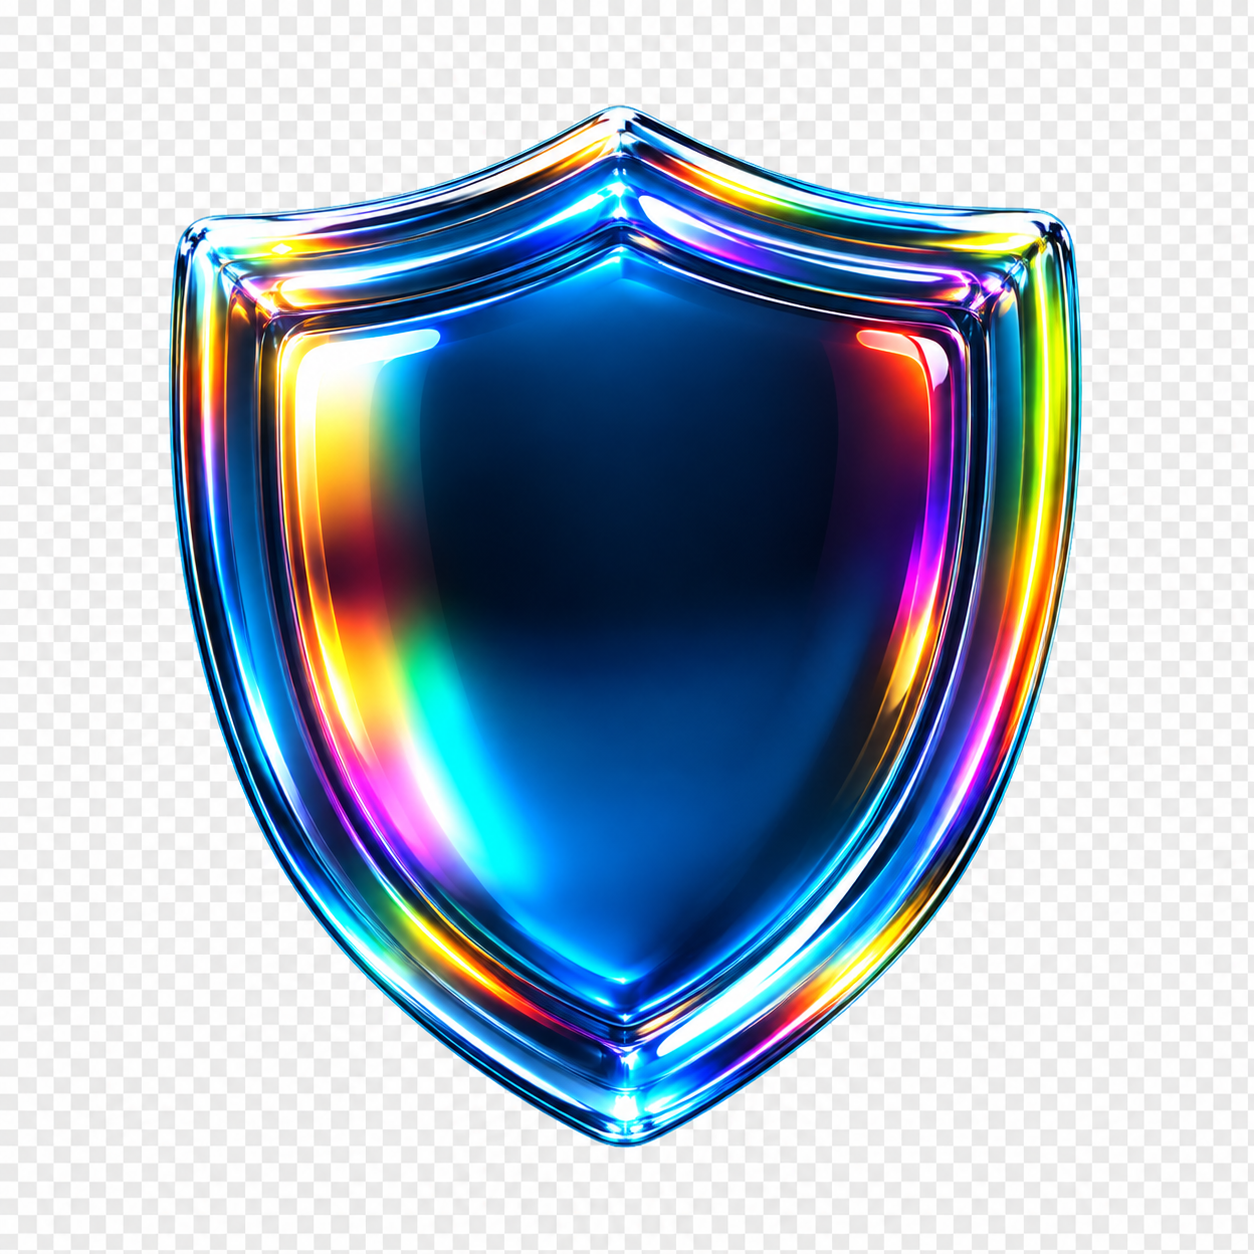
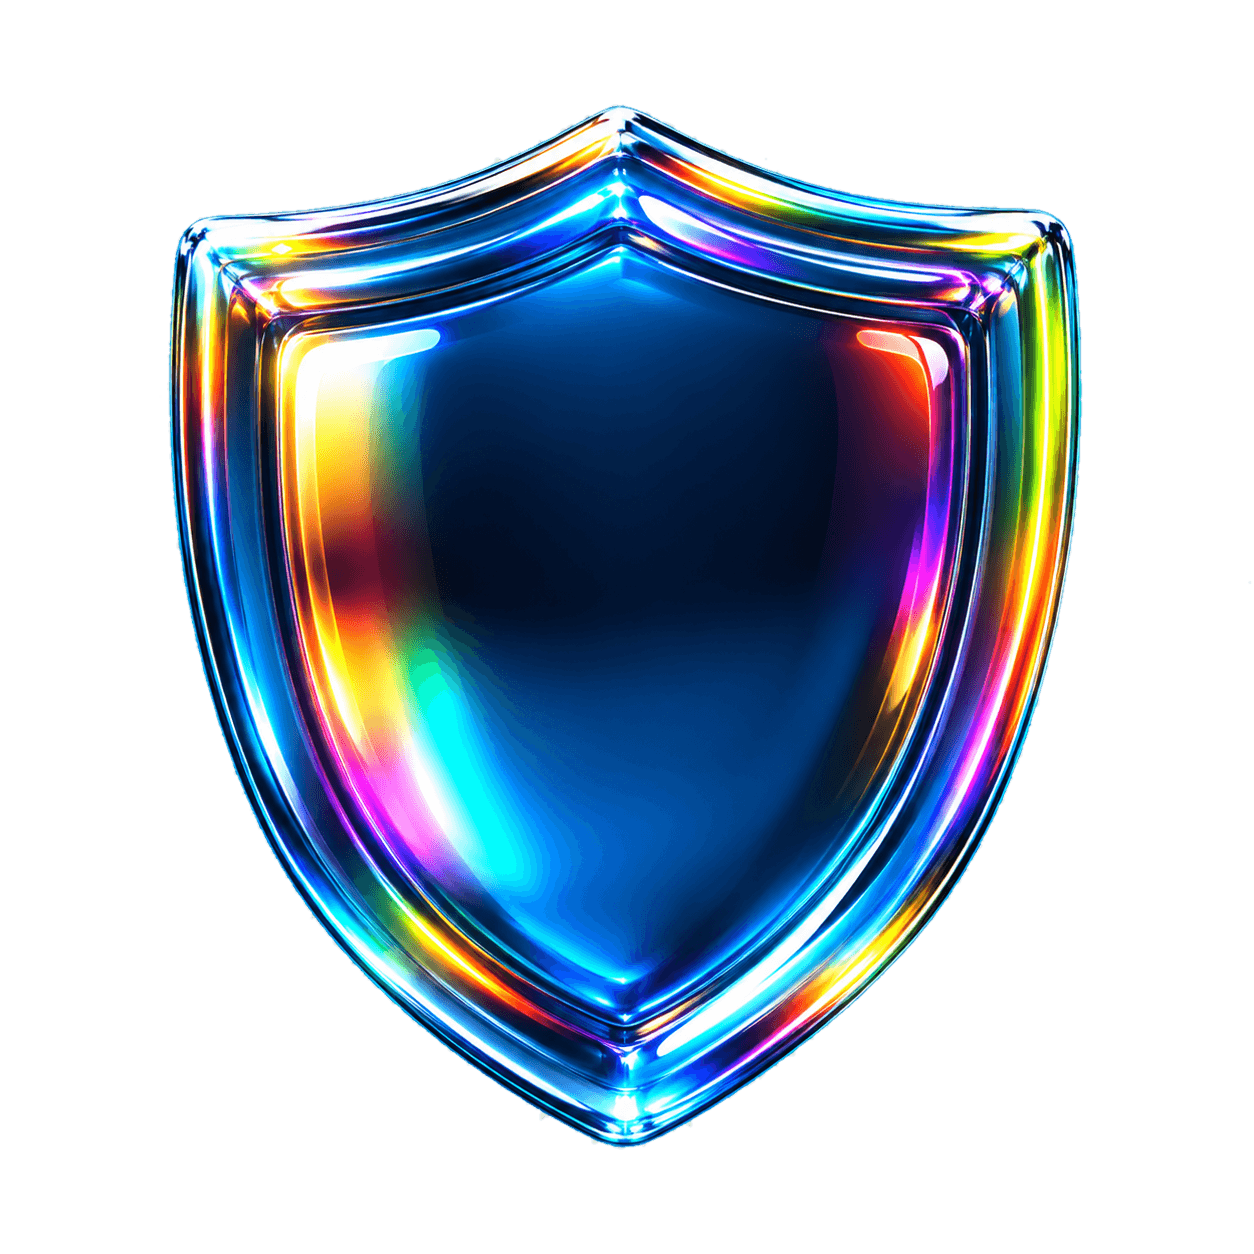
Bring the shield in, with its checkerboard keyed out
glass-icon-shield.png arrived with no alpha channel: it had been exported
with the editor's transparency checkerboard flattened into the pixels, so
it rendered as a grey chequered box around the shield. The file in this
repo now carries real transparency.

The checker is what makes that recoverable — it is neutral and bright
(234 and 254, R=G=B) where the art is saturated or dark, and it is
connected to the frame. So a flood fill inward from the border removes it
and cannot reach the shield's own white rim highlights, which the art
encloses. Measured: 54.6% of the frame removed, against a background that
occupied about 55% of it, with the centre and rims left fully opaque.

A first attempt at this appeared to destroy the art, and the cause was
worth writing down: the feather was done with `sharp.blur()` on a
one-channel raw buffer, which does not return one channel, so reading it
back per pixel ran off the end and every alpha byte came out zero. The
whole image went transparent and the page showed a clipped shield. The
blur is three lines of JS now, over a buffer whose length is known.

Re-compressed on the way through, which took the file from 2.4 MB to
254 KB with the pixels untouched. If the piece is ever re-exported from
source with real transparency, that file is better than this recovery and
should replace it.

diff --git a/app/styles/components/logo-cloud.css b/app/styles/components/logo-cloud.css
@@ -14,23 +14,35 @@
   padding-inline: 1rem;
 }
 
+/* An even grid at every width, never a wrapping flex row.
+
+   The row used to be `flex-wrap` with each mark at its natural width, which is
+   what made the section look scattered: every row broke at a different point,
+   no two marks shared a left edge, and the last row centred itself under
+   columns that were not there. A fixed column count per breakpoint puts every
+   mark in the same box as its neighbours, so the eye reads columns. */
 .logo-cloud__grid {
   display: grid;
   grid-template-columns: repeat(3, minmax(0, 1fr));
-  place-items: center;
-  gap: 2rem 1rem;
-  max-width: 64rem;
+  align-items: center;
+  justify-items: center;
+  gap: clamp(1.5rem, 4vw, 2.5rem) 1rem;
+  max-width: 68rem;
   margin: 2.5rem auto 0;
 }
 
 @media (min-width: 640px) {
   .logo-cloud__grid {
-    display: flex;
-    flex-wrap: wrap;
-    align-items: center;
-    justify-content: center;
-    gap: 2rem 2.5rem;
+    grid-template-columns: repeat(4, minmax(0, 1fr));
+    gap: 2.5rem 1.5rem;
     margin-top: 3rem;
+  }
+}
+
+@media (min-width: 1024px) {
+  .logo-cloud__grid {
+    grid-template-columns: repeat(6, minmax(0, 1fr));
+    gap: 2.75rem 2rem;
   }
 }
 
@@ -38,38 +50,42 @@
   display: flex;
   align-items: center;
   justify-content: center;
+  width: 100%;
   min-width: 0;
   transition: transform 220ms cubic-bezier(0.16, 1, 0.3, 1);
-}
-
-@media (min-width: 640px) {
-  .logo-cloud__item {
-    flex: 0 0 auto;
-    padding-inline: 0.5rem;
-  }
 }
 
 .logo-cloud__item:hover {
   transform: scale(1.07);
 }
 
+/* One box for every mark, and each mark fitted inside it.
+
+   Sizing by height alone (the old `h-12`/`h-16` on the image) is what made
+   these read as different sizes: a 4:1 wordmark like "ZHTC — Zambia Hands On
+   Training Centre" and a square mark like FI set to the same height differ by
+   four times in area, so the wordmarks dominated and the square marks looked
+   like an afterthought. A fixed box with object-contain lets the wide ones be
+   limited by width and the tall ones by height, which normalises them
+   optically without a per-logo size to maintain — and holds for whatever the
+   CMS uploads next. */
 .logo-cloud__mark {
   display: flex;
   align-items: center;
   justify-content: center;
-  /* The marks are sized by height (h-12/h-16) with an auto width, so a wide
-     one — a long wordmark like "ZHTC Zambia Hands On Training Centre" — would
-     otherwise run out of its grid column on a phone. Capping the width lets
-     object-contain scale it down instead. */
-  max-width: 100%;
+  width: 100%;
+  height: clamp(2.5rem, 7vw, 3.5rem);
 }
 
 .logo-cloud__mark img {
+  max-height: 100%;
   max-width: 100%;
+  width: auto;
+  object-fit: contain;
 }
 
-/* The same cap for rows with no usable image, which render the partner's name
-   instead: it wraps rather than pushing out of the column. */
+/* The same box for rows with no usable image, which render the partner's name
+   instead: it wraps and shrinks rather than pushing out of the column. */
 .logo-cloud__wordmark {
   max-width: 100%;
   text-align: center;

diff --git a/app/styles/pages/home.css b/app/styles/pages/home.css
@@ -2624,17 +2624,6 @@
   color: rgba(255, 255, 255, 0.6);
 }
 
-.backers__headline {
-  margin: 0;
-  max-width: 34ch;
-  font-family: var(--font-ubuntu), "Ubuntu", ui-sans-serif, system-ui, sans-serif;
-  font-size: clamp(1.4rem, 3.4vw, 2.25rem);
-  font-weight: 600;
-  line-height: 1.2;
-  letter-spacing: -0.02em;
-  color: #fff;
-}
-
 /* ── The band ──────────────────────────────────────────────────────────── */
 
 .backers__band {
@@ -2720,8 +2709,14 @@
 }
 
 /* Hover on a cell that is not the lit one still de-greys its mark, so the
-   pointer has something to follow between swaps. */
-.backers__item:hover .backers__logo {
+   pointer has something to follow between swaps.
+
+   `:not([data-active])` is load-bearing, not a tidy-up. Hovering a cell makes
+   it the active one, so without it this rule matched the lit cell too — same
+   specificity as the rule above and later in the file, so it won, and the mark
+   came back to full opacity mid-swap and sat in colour on top of the caption
+   it was supposed to have cleared out for. */
+.backers__item:not([data-active]):hover .backers__logo {
   opacity: 1;
   filter: grayscale(0);
 }
@@ -3130,21 +3125,15 @@
 /* ── Backed by ─────────────────────────────────────────────────────────── */
 
 .backers__eyebrow,
-.backers__headline,
 .backers__cell {
   transition:
     opacity 0.7s ease var(--enter-delay, 0s),
     transform 0.7s cubic-bezier(0.22, 1, 0.36, 1) var(--enter-delay, 0s);
 }
 
-.backers-reveal[data-fur="out"] .backers__eyebrow,
-.backers-reveal[data-fur="out"] .backers__headline {
+.backers-reveal[data-fur="out"] .backers__eyebrow {
   opacity: 0;
   transform: translate3d(0, 16px, 0);
-}
-
-.backers-reveal[data-fur="out"] .backers__headline {
-  --enter-delay: 0.08s;
 }
 
 /* The cell, not the `<li>` and not the mark inside it. The `<li>` carries the
@@ -3209,12 +3198,10 @@
    arm in utilities.css does the same for its wrapper. */
 @media (prefers-reduced-motion: reduce) {
   .backers__eyebrow,
-  .backers__headline,
   .backers__cell,
   .who-cta__copy > *,
   .who-cta__rows > .mq,
   .backers-reveal[data-fur="out"] .backers__eyebrow,
-  .backers-reveal[data-fur="out"] .backers__headline,
   .backers-reveal[data-fur="out"] .backers__cell,
   .who-cta__copy-reveal[data-fur="out"] .who-cta__copy > *,
   .who-cta__rows-reveal[data-fur="out"] .who-cta__rows > .mq:nth-child(1),

diff --git a/app/components/ui/FloatingGlassIcons.tsx b/app/components/ui/FloatingGlassIcons.tsx
@@ -5,6 +5,7 @@ import Image, { type StaticImageData } from "next/image";
 import iconCloud from "@/public/Assets/glass-icon-cloud.png";
 import iconEmail from "@/public/Assets/glass-icon-email.png";
 import iconMessages from "@/public/Assets/glass-icon-messeges.png";
+import iconShield from "@/public/Assets/glass-icon-shield.png";
 
 /**
  * The glass marks drifting in the closing CTA's right-hand column.
@@ -42,17 +43,19 @@ type FloatingIcon = {
 const ICONS: FloatingIcon[] = [
   { src: iconMessages, name: "messaging", top: "20%", left: "30%", size: 132, duration: 11, delay: 0, drift: "16px" },
   { src: iconEmail, name: "email", top: "44%", left: "72%", size: 112, duration: 13, delay: -3.5, drift: "-13px" },
-  { src: iconCloud, name: "cloud delivery", top: "74%", left: "38%", size: 124, duration: 15, delay: -7, drift: "19px" },
+  { src: iconCloud, name: "cloud delivery", top: "70%", left: "32%", size: 120, duration: 15, delay: -7, drift: "19px" },
+  { src: iconShield, name: "security", top: "88%", left: "70%", size: 96, duration: 12, delay: -1.5, drift: "-15px" },
 ];
 
 /*
- * glass-icon-shield.png is deliberately not in that list. Unlike the other
- * three it has no alpha channel at all — it was exported with the editor's
- * transparency checkerboard flattened into the pixels, so it renders as a grey
- * chequered box around the shield. Keying the background out afterwards eats
- * into the art's own soft edges, so the fix is a re-export with transparency,
- * not a patch here. Once the file has an alpha channel, adding it back is one
- * line above.
+ * glass-icon-shield.png arrived without an alpha channel — exported with the
+ * editor's transparency checkerboard flattened into the pixels, so it rendered
+ * as a grey chequered box. The file in this repo has had that background keyed
+ * out: the checker is neutral and bright (234 and 254, R=G=B) while the art is
+ * saturated or dark, so a flood fill inward from the frame removes it without
+ * touching the shield's own white highlights, which are enclosed by it. If the
+ * piece is ever re-exported from source with real transparency, that file is
+ * better than this recovery and should simply replace it.
  */
 
 export function FloatingGlassIcons() {

diff --git a/app/components/ui/BackedBy.tsx b/app/components/ui/BackedBy.tsx
@@ -21,7 +21,9 @@ import type { HomeLogoItem } from "@/app/HomeClient";
  * That meant the section named the same partner twice at the same moment, and
  * the large copy had to be sized to the longest name the CMS might ever hold
  * so a swap could not reflow the page. Naming each mark on the mark drops the
- * duplicate and the sizing hack with it, and the label above is now fixed copy.
+ * duplicate and the sizing hack with it, and the label above is now just the
+ * "Backed by" pill — the headline that sat under it named nothing the pill
+ * and the marks do not already say.
  *
  * The cycle is the baseline and the pointer is the override: hovering the band
  * stops the advance and reveals whichever mark is under the cursor, and
@@ -36,11 +38,9 @@ const DWELL_MS = 2800;
 export function BackedBy({
   logos,
   eyebrow = "Backed by",
-  headline = "The networks, platforms and institutions behind BalloAds.",
 }: {
   logos: HomeLogoItem[];
   eyebrow?: string;
-  headline?: string;
 }) {
   const reduced = useReducedMotion();
   const [active, setActive] = React.useState(0);
@@ -95,7 +95,6 @@ export function BackedBy({
     <div className="backers">
       <div className="backers__label">
         <p className="backers__eyebrow">{eyebrow}</p>
-        <p className="backers__headline">{headline}</p>
       </div>
 
       {/* The band. `onMouseLeave` hands the section back to the cycle rather

diff --git a/app/components/ui/LogoCloud.tsx b/app/components/ui/LogoCloud.tsx
@@ -76,18 +76,20 @@ export function LogoCloud({
                 <Image
                   src={logo.src}
                   alt={logo.alt}
-                  width={128}
-                  height={64}
+                  width={256}
+                  height={128}
                   loading="lazy"
-                  sizes="128px"
+                  sizes="180px"
                   onError={() => markLogoBroken(logo.alt)}
-                  className="h-12 w-auto object-contain sm:h-16"
+                  /* Sized by `.logo-cloud__mark img`, not here: every mark is
+                     fitted into one shared box rather than set to a height of
+                     its own. See the note in logo-cloud.css. */
                   style={{
                     filter: logo.invert ? "brightness(0) invert(1)" : undefined,
                   }}
                 />
               ) : (
-                <span className="logo-cloud__wordmark text-base font-semibold tracking-wide text-white/70 sm:text-2xl">
+                <span className="logo-cloud__wordmark text-sm font-semibold tracking-wide text-white/70 sm:text-lg">
                   {logo.alt}
                 </span>
               )}
